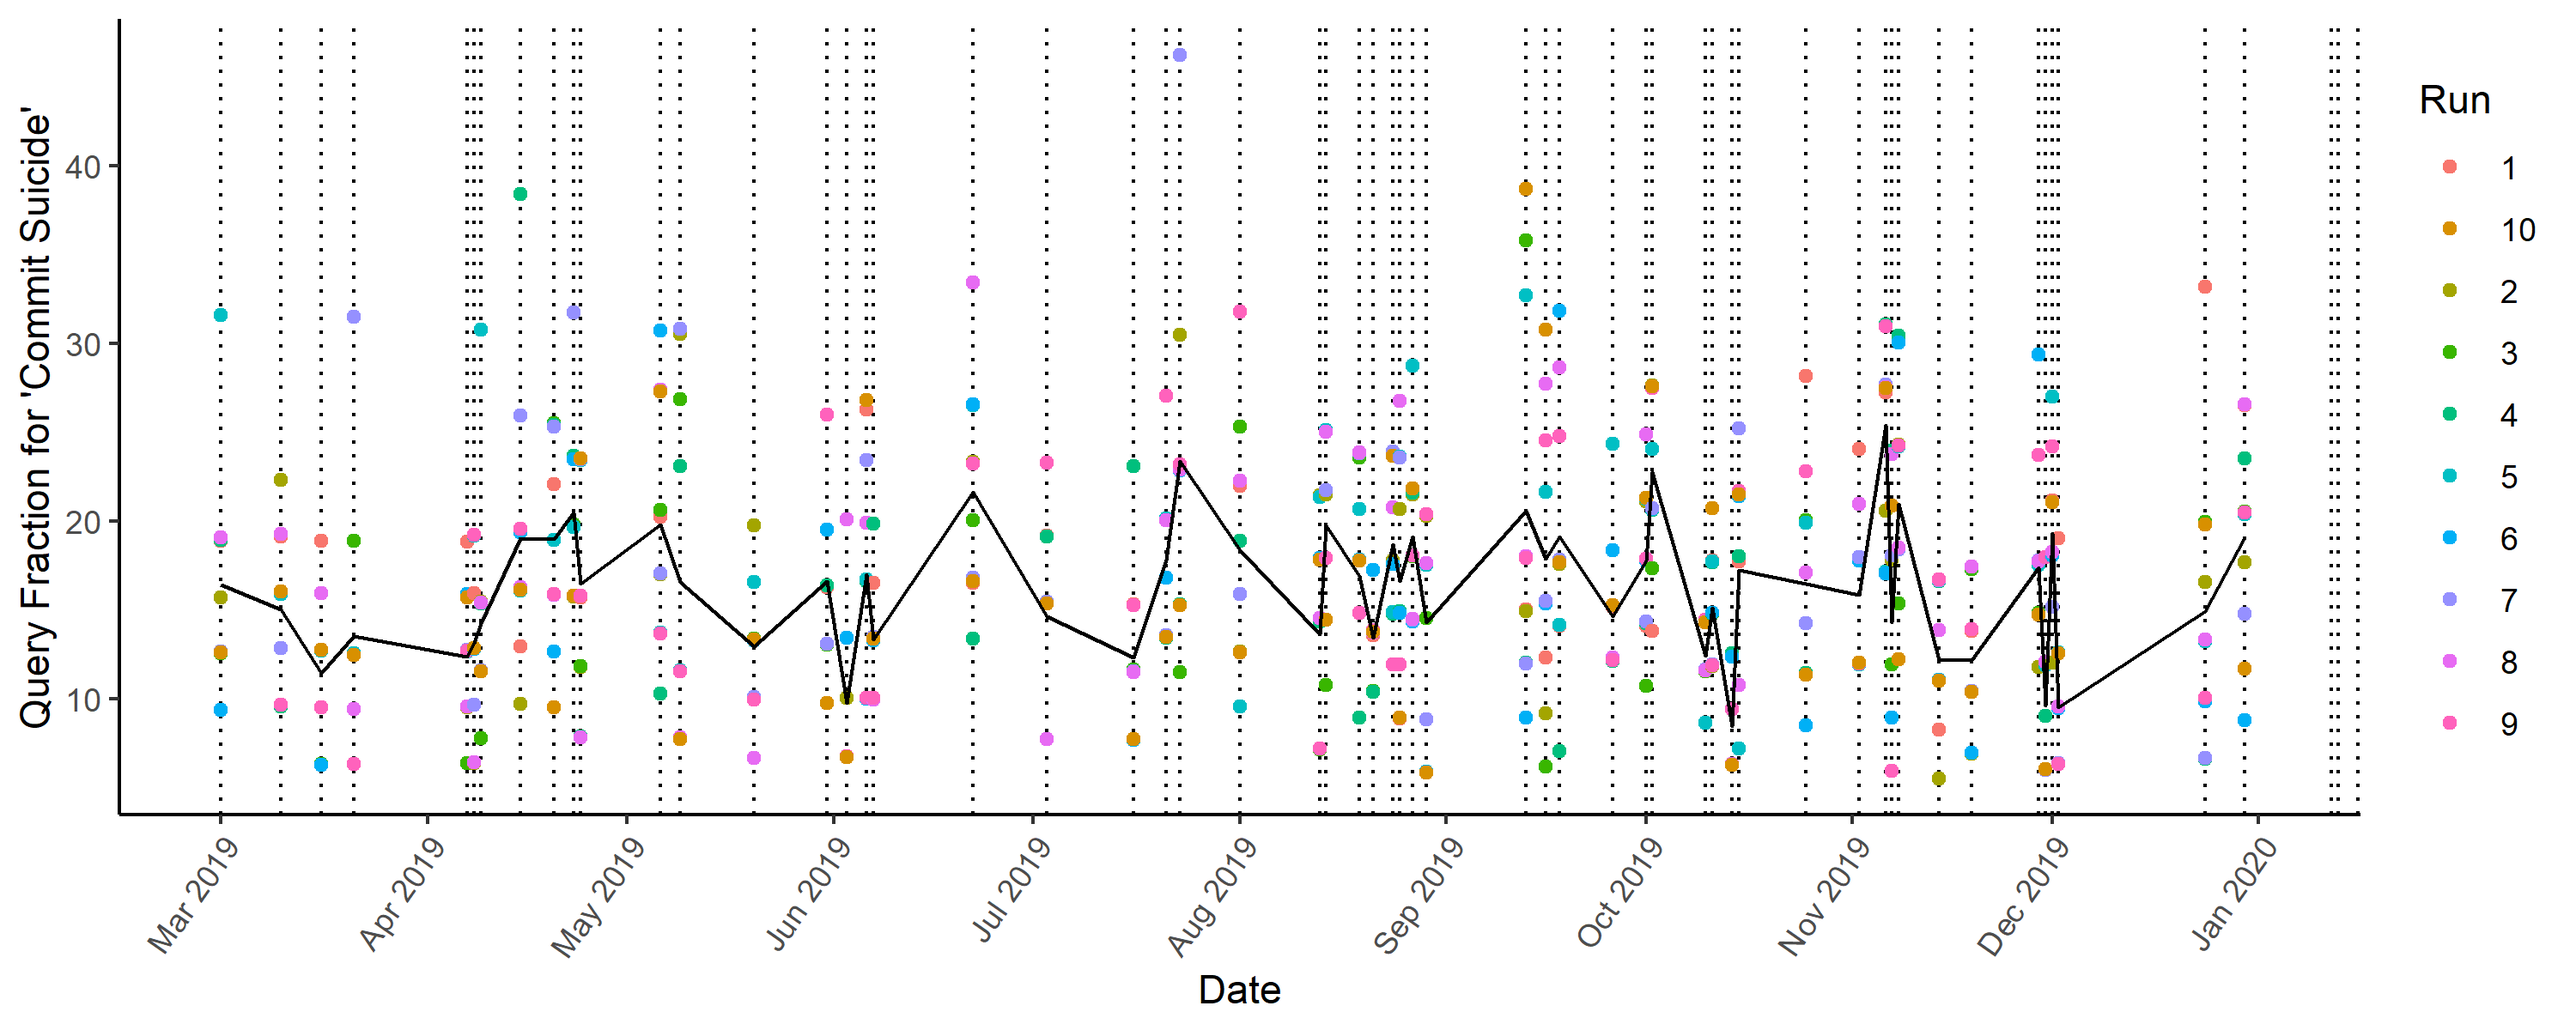
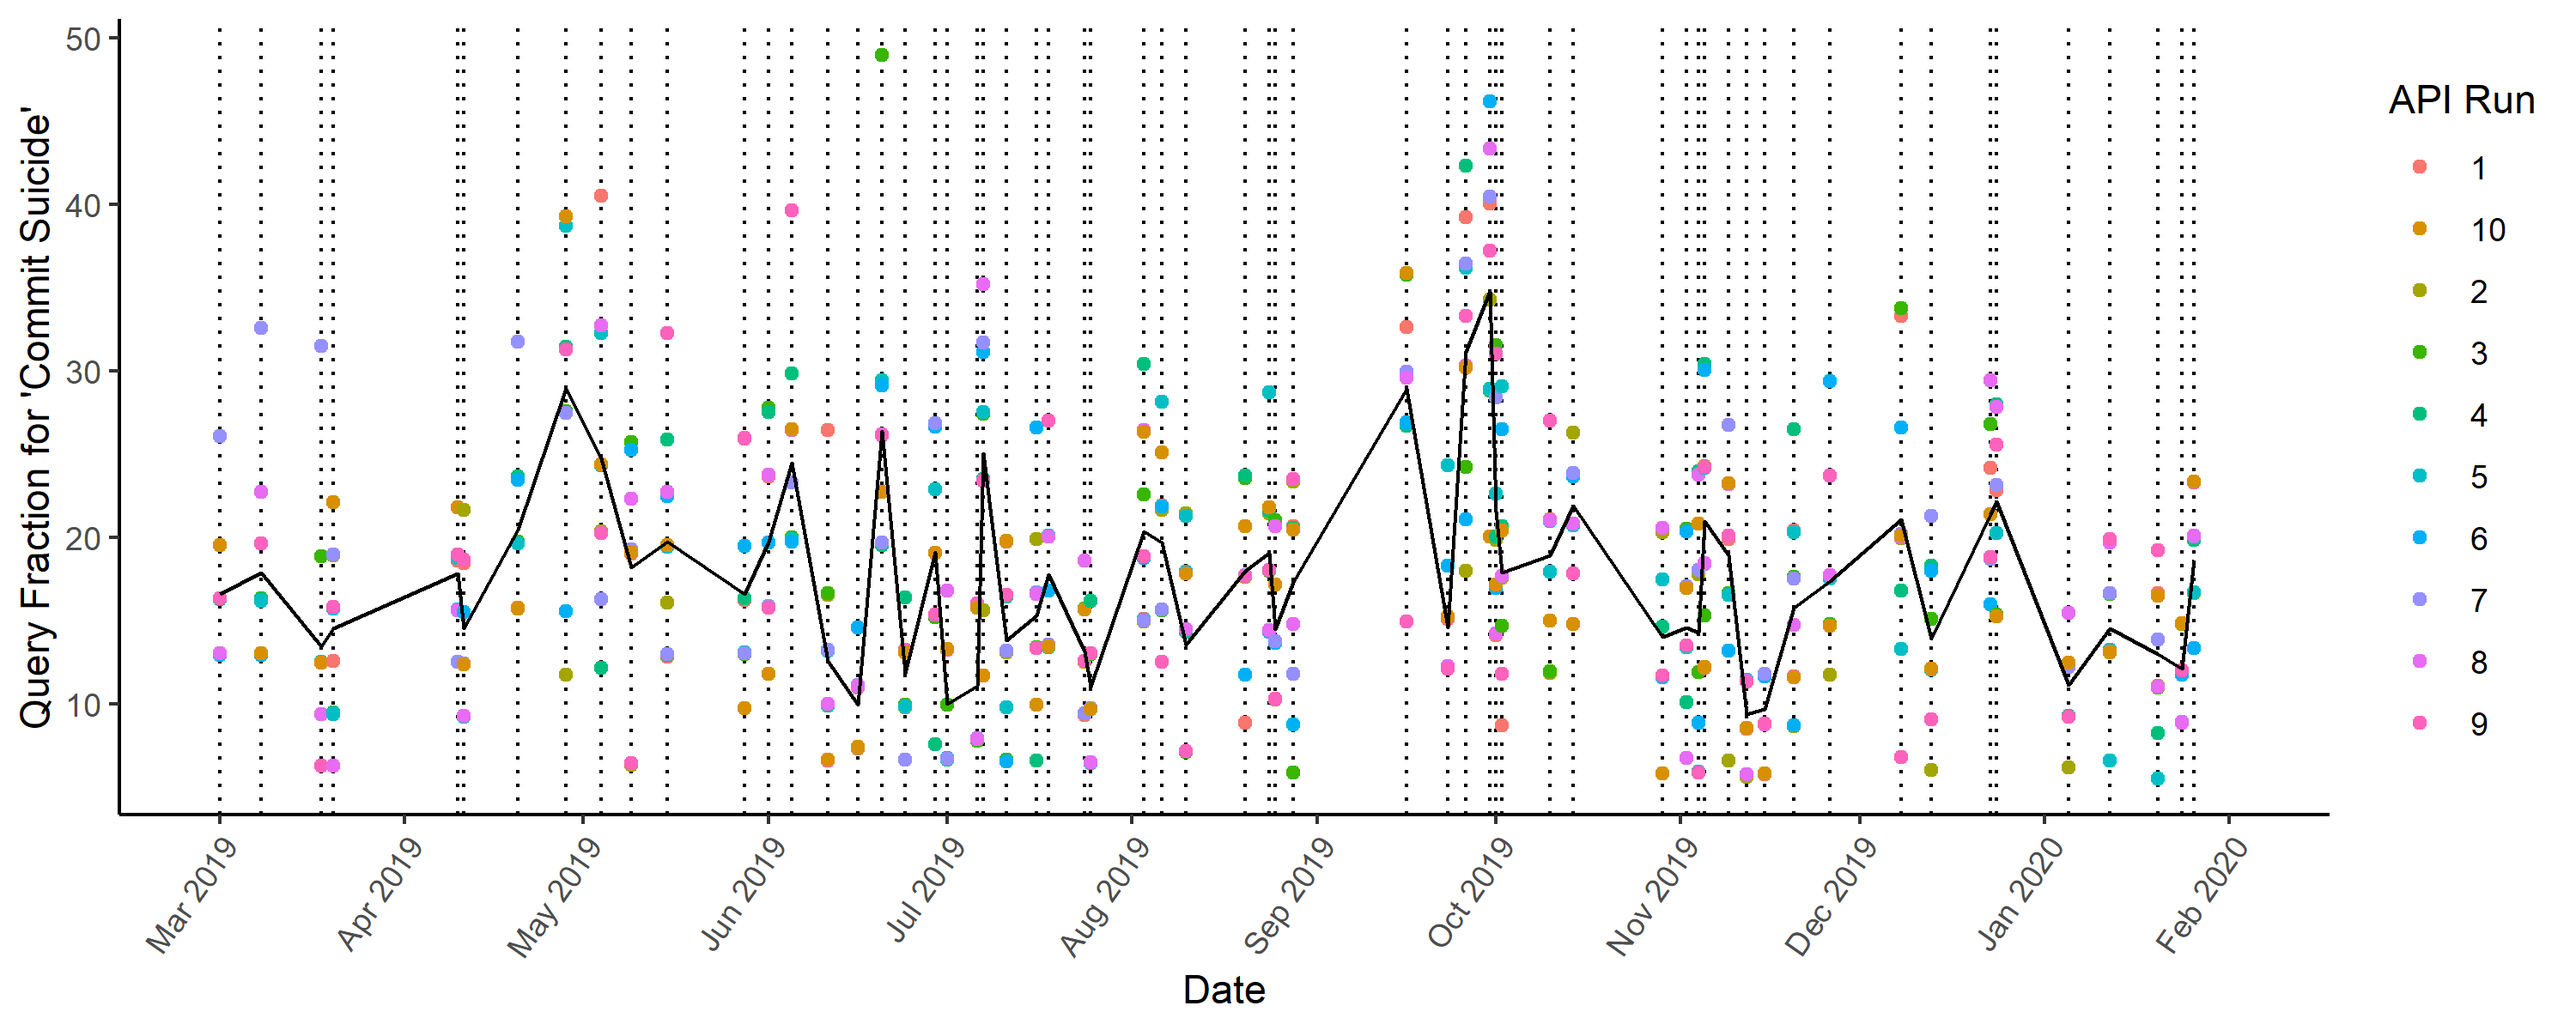
update readme

diff --git a/docs/google-variance.md b/docs/google-variance.md
@@ -1,8 +1,8 @@
-### Google Trends API Returns Are Highly Variable
+### Google Trends API Returns Highly Variable Data
 
 If you are using Google Search data, you should be aware of some basic limitations. Nobody knows the etiology of a search. Searches with the keyword "commit suicide" could be (A) people who are experiencing suicidal ideation, (B) people who want to know if a celebrity committed suicide (e.g., "did Michael Jackson commit suicide"), (C) mental health researchers wondering what comes up when you search "commit suicide", etc.
 
-But that's not all. Google Searches are *sampled* for each pull, which means that every time they are pulled, they can change. Even when searching the same terms over the same date(s), they can be vastly different. With this simple test, I show the data Google returns is, in itself, highly variable -- even when you request the same data for the same terms within just a few seconds of each other.
+But that's not all. Google Searches are *sampled* for each pull, which means that every time they are pulled, they can change. Even when searching the same terms over the same date(s), they can be vastly different. With this simple test, I show the data Google returns is highly variable -- even when you request the same data for the same terms within just a few seconds of each other.
 
 To demonstrate, I pull data for several suicide-related search terms over 10 overlapping time windows.
 
@@ -285,9 +285,9 @@ This means that for one date, the difference between the highest and lowest pull
 We can visualize how different individual runs are from the mean with a dot plot. Each vertical line is a (randomly sampled) date. The black line is the mean for all runs, and the colored dots represent a different run.
 
 ```r
-
+set.seed(1234)
 df <- full_data_list[[1]]
-long_df <- melt(df %>% sample_n(60), id = "timestamp", value.name = "searches", variable.name = "run")
+long_df <- melt(df %>% filter(complete.cases(.)) %>% sample_n(60), id = "timestamp", value.name = "searches", variable.name = "run")
 long_df$run <- gsub("run", "", long_df$run)
 long_df$timestamp <- ymd(long_df$timestamp)
 long_df <- long_df %>% arrange(timestamp)
@@ -296,23 +296,22 @@ grouped_df <- long_df %>% group_by(timestamp) %>% summarise(meansearches = mean(
 
 p <- ggplot(long_df)
 p <- p + geom_vline(aes(xintercept = timestamp), linetype = "dotted")
-p <- p + geom_point(aes(x = timestamp, y = searches, group = run, col = run))
-s1 <- seq.Date(min(ymd(long_df$timestamp)), max(ymd(long_df$timestamp)), by = "1 month")
+p <- p + geom_point(aes(x = timestamp, y = searches, col = run))
+s1 <- seq.Date(min(ymd(long_df$timestamp)), max(ymd(long_df$timestamp)) + 28, by = "1 month")
 p <- p + scale_x_date(
     lim = c(min(s1), max(s1)),
     breaks = s1,
     labels = function(x) format(x, format = "%b %Y")
   )
-
 p <- p + geom_line(data = grouped_df, aes(x=timestamp, y = meansearches))
-# p <- p + geom_line(data = long_df %>% filter(run == 1), aes(x=timestamp, y = searches))
 p <- p + theme_classic()
 p <- p + theme(axis.text.x = element_text(angle = 55, hjust = 1))
 p <- p + labs(
   x = "Date",
   y = "Query Fraction for 'Commit Suicide'",
-  col = "Run"
+  col = "API Run"
 )
+
 ggsave("./output/commitsuicide_dotplot.png", p, width = 10, height = 4)
 
 ```
